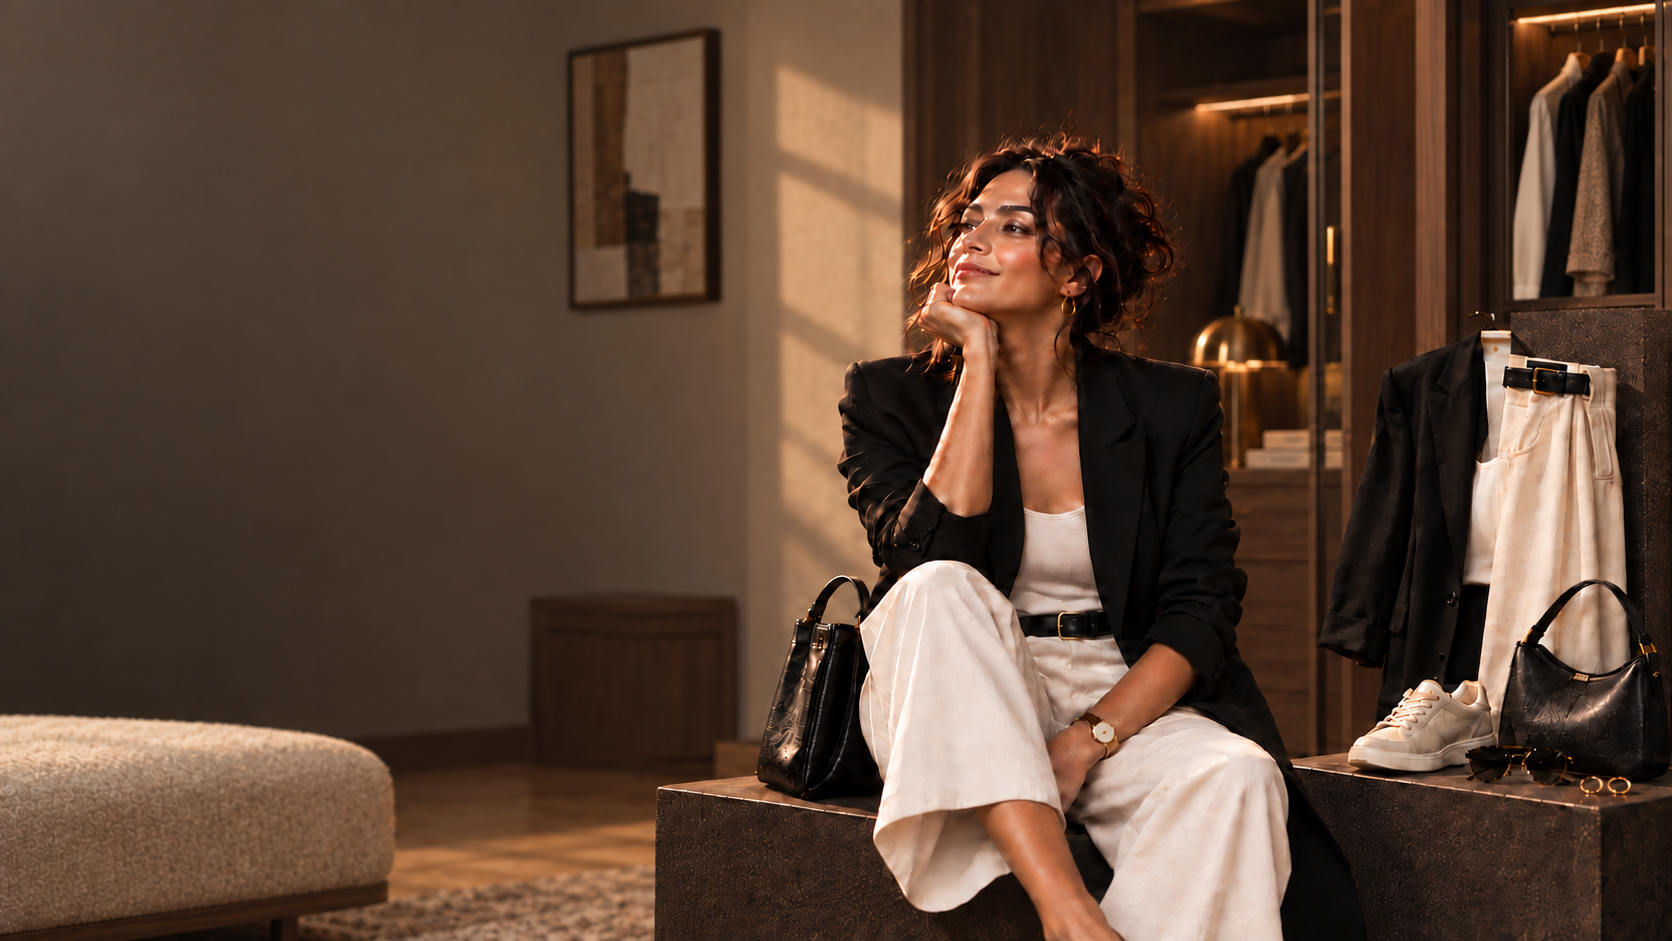
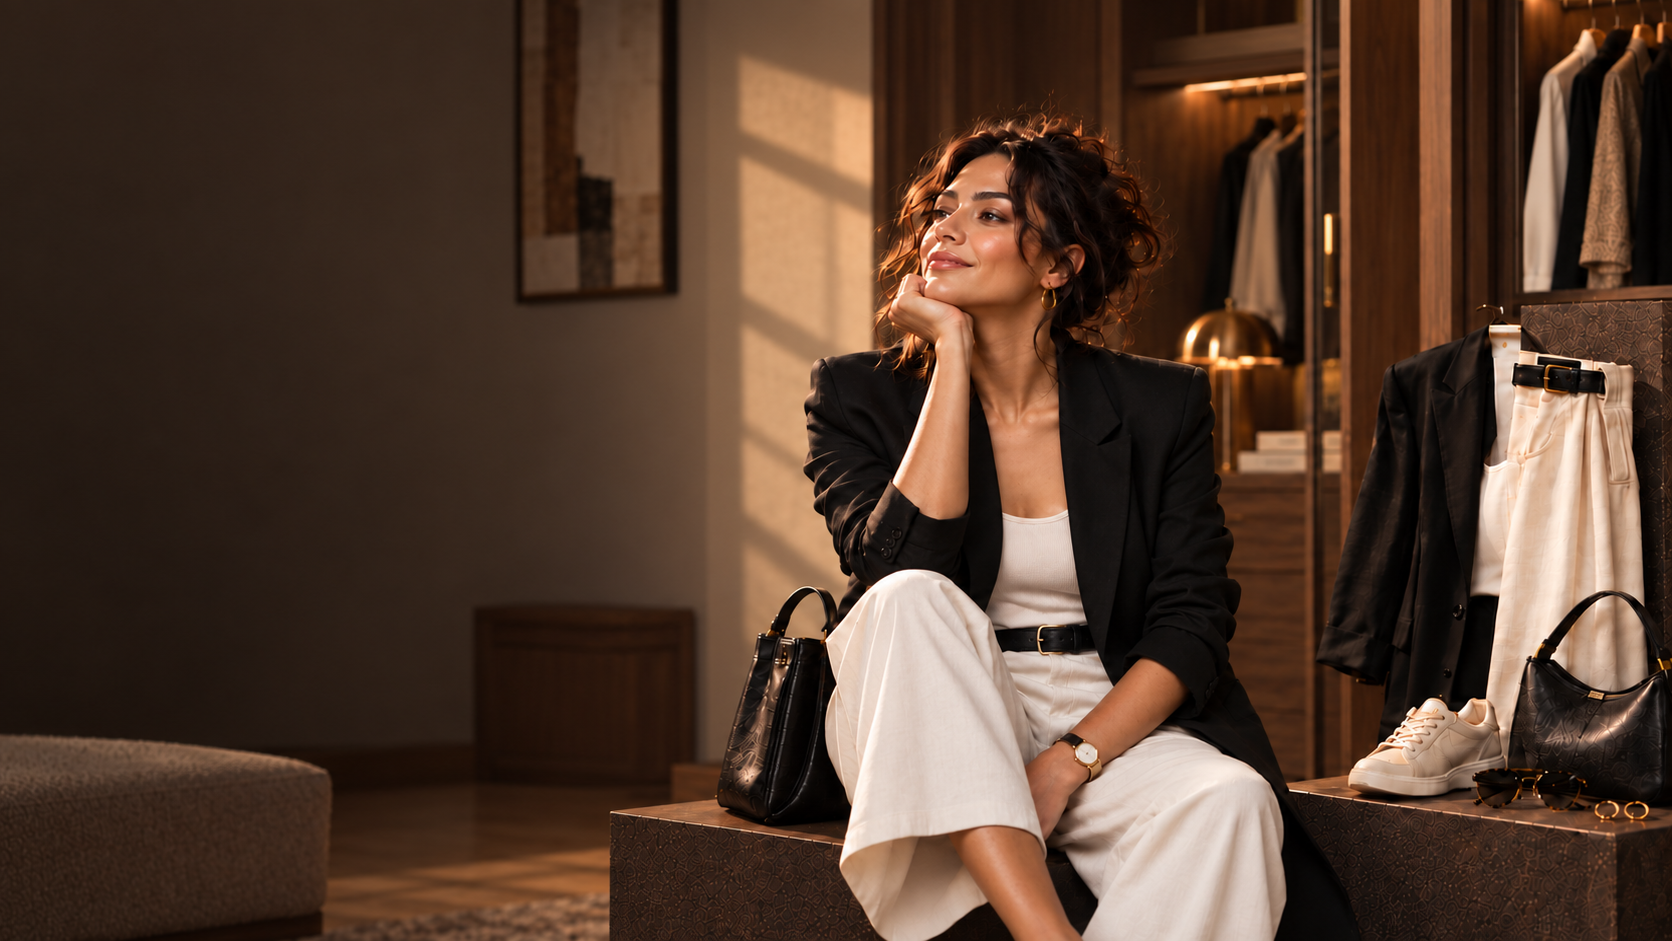
Swap in higher-fidelity hero photo, orange nav hover, warmer hero fade
Replace the hero background with a sharper composite of the model in
the walnut wardrobe scene. Add an orange hover/active state to the nav
links and Sign in, and warm the hero's bottom-edge fade toward a
greige tone (matching the reference's transition treatment) before it
settles into the existing bridge background.

diff --git a/app/src/app/landing-hero.css b/app/src/app/landing-hero.css
@@ -68,6 +68,28 @@
   border-color: var(--line);
 }
 
+/* Nav links and Sign in turn orange on hover and while active/clicked. */
+.drape-header .drape-links a,
+.drape-header .drape-nav-actions > a:first-child {
+  transition: color 0.18s ease;
+}
+.drape-header .drape-links a:hover,
+.drape-header .drape-links a:active,
+.drape-header .drape-nav-actions > a:first-child:hover,
+.drape-header .drape-nav-actions > a:first-child:active,
+.drape-header .drape-mobile-menu a:hover,
+.drape-header .drape-mobile-menu a:active {
+  color: #d97a4c;
+}
+.drape-header.is-compact .drape-links a:hover,
+.drape-header.is-compact .drape-links a:active,
+.drape-header.is-compact .drape-nav-actions > a:first-child:hover,
+.drape-header.is-compact .drape-nav-actions > a:first-child:active,
+.drape-header.is-compact .drape-mobile-menu a:hover,
+.drape-header.is-compact .drape-mobile-menu a:active {
+  color: #a8482c;
+}
+
 /* Cinematic home-wardrobe hero. */
 .drape-public .drape-hero {
   position: relative;
@@ -99,9 +121,11 @@
   left: 0;
   right: 0;
   bottom: 0;
-  height: 140px;
+  height: 240px;
   z-index: 2;
-  background: linear-gradient(180deg, transparent 0%, var(--paper) 100%);
+  /* Warm greige ease, matching the reference's transition into the next
+     section, without touching the bridge's own background. */
+  background: linear-gradient(180deg, transparent 0%, rgb(214 199 184 / 0.55) 55%, var(--paper) 100%);
   pointer-events: none;
 }
 .drape-hero-backdrop {
